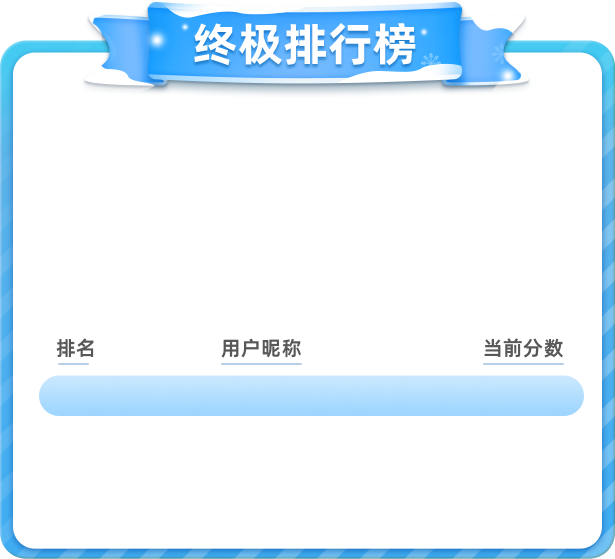
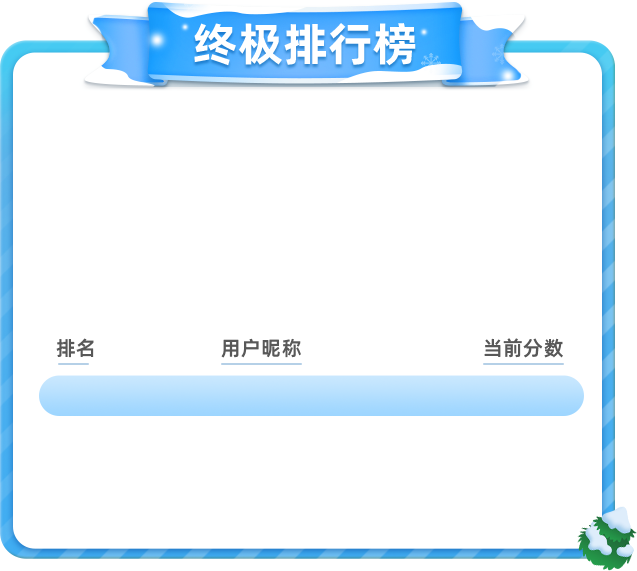
修改排行榜滑动，修改与加载的资源

Changed region(s): [[0.0, 0.0, 1.0, 1.0]]

diff --git a/src/panel/rank/rank.less b/src/panel/rank/rank.less
@@ -1,13 +1,14 @@
 @import "../../res.less";
 .rank {
-  width: 820px;
+  width: 860px;
   height: 609px;
   position: absolute;
   transform: rotate(90deg);
+  overflow: hidden;
   .popupWindowBottom {
-    width: 615px;
-    height: 559px;
-    left: 74px;
+    width: 637px;
+    height: 571px;
+    left: 144px;
     top: 29px;
     position: absolute;
     .sparkBg("排行榜/弹窗底板.png");
@@ -15,7 +16,7 @@
   .shutDown {
     width: 50px;
     height: 51px;
-    left: 641px;
+    left: 711px;
     top: 0px;
     position: absolute;
     .sparkBg("common/close.png");
@@ -23,7 +24,7 @@
   .rank-prizeList {
     width: 590px;
     height: 190px;
-    left: 85px;
+    left: 155px;
     top: 145px;
     position: absolute;
     .beforeInvitingFriends {
@@ -74,7 +75,7 @@
 
   .rank-rankList {
     width: 590px;
-    left: 85px;
+    left: 155px;
     top: 404px;
     position: absolute;
     color: #4587bf;
@@ -117,10 +118,10 @@
     }
     .rank-otherRank {
       width:545px;
-      height: 133px;
+      height: 110px;
       overflow-x: hidden;
       overflow-y: auto;
-      padding-bottom: 30px;
+      padding-bottom: 10px;
       box-sizing: border-box;
     }
   }
@@ -132,18 +133,17 @@
   .button3 {
     width: 298px;
     height: 52px;
-    left: 230px;
+    left: 300px;
     top: 557px;
     position: absolute;
     .sparkBg("排行榜/按钮3.png");
   }
   .snowAndIceAtmosphere {
-    width: 820px;
-    height: 417px;
+    width: 860px;
+    height: 219px;
     left: 0px;
     top: 183px;
     position: absolute;
-    .sparkBg("common/冰雪氛围.png");
     pointer-events: none;
   }
 }

diff --git a/src/panel/rank/rank.jsx b/src/panel/rank/rank.jsx
@@ -8,6 +8,7 @@ import modalStore from '@src/store/modal';
 import API from '../../api';
 import { USER_AVATAR, USER_NAME } from '@src/utils/constants.js';
 import './rank.less';
+import { SvgaPlayer } from "@spark/animation";
 
 @observer
 class Rank extends React.Component {
@@ -37,6 +38,7 @@ class Rank extends React.Component {
     return (
       <div className="rank">
         <span className="popupWindowBottom"></span>
+        <SvgaPlayer className="snowAndIceAtmosphere" src={`${RES_PATH}svga/雪花.svga`}></SvgaPlayer>
         <span className="shutDown" onClick={() => modalStore.closePop("Rank")}></span>
         {/* 奖品区域 */}
         <div className="rank-prizeList">
@@ -88,8 +90,7 @@ class Rank extends React.Component {
           </div>
         </div>
         {/* 邀请 */}
-        <span className="button3" onClick={() => store.toInvite()}></span>
-        <span className="snowAndIceAtmosphere"></span>
+        <div className="button3" onClick={() => store.toInvite()}></div>
       </div>
     );
   }

diff --git a/sparkrc.js b/sparkrc.js
@@ -10,5 +10,5 @@ module.exports ={
   "IMAGE_Q2": 0.8,
   "RES_PATH": "/src/assets/",
   "RES_PATH_PROD": "//yun.duiba.com.cn/spark/v2/temp_base/1642399166904",
-  "JS_PATH_PROD": "https://yun.duiba.com.cn/spark/v2/temp_base/1642415016422/js"
+  "JS_PATH_PROD": "https://yun.duiba.com.cn/spark/v2/temp_base/1642415476065/js"
 }

diff --git a/src/utils/preload1.3.js b/src/utils/preload1.3.js
@@ -175,6 +175,9 @@ export function loadLocalAssets() {
         'svga/结算星星2.svga',
         'svga/结算星星3.svga',
         'svga/女生和牛.svga',
+        'mapPage/gift.png',
+        'mapPage/敬请期待.png',
+        'mapPage/greenLevelBg.png',
     ]
     preloadAsset(urlList,3)
 }
